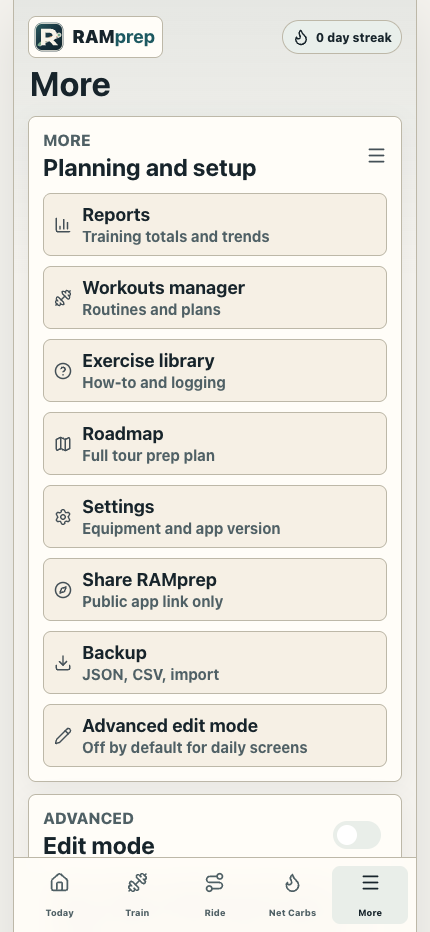
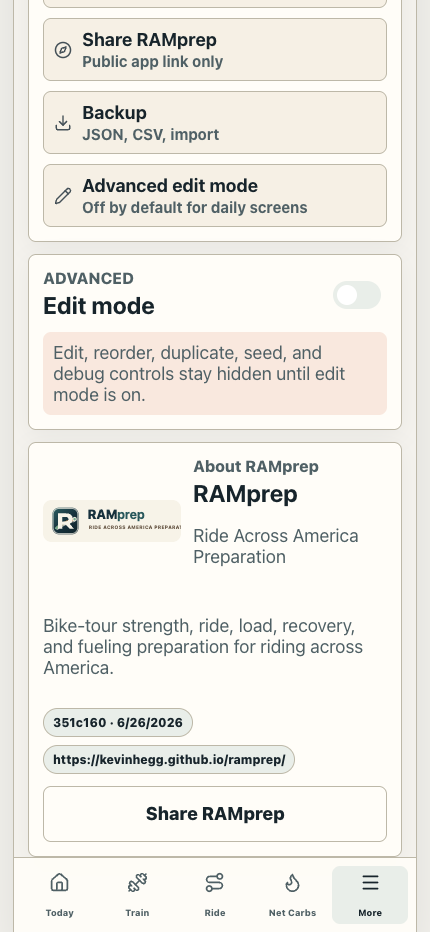
Preserve RAMprep casing in About report

diff --git a/src/App.css b/src/App.css
@@ -167,6 +167,10 @@
   letter-spacing: 0;
 }
 
+.eyebrow.preserve-case {
+  text-transform: none;
+}
+
 .status-pill,
 .tag {
   display: inline-flex;

diff --git a/src/App.tsx b/src/App.tsx
@@ -3180,7 +3180,7 @@ function App() {
             <div className="about-brand">
               <img src={`${import.meta.env.BASE_URL}ramprep-logo-horizontal.svg`} alt="RAMprep logo" />
               <div>
-                <p className="eyebrow">About RAMprep</p>
+                <p className="eyebrow preserve-case">About RAMprep</p>
                 <h2>RAMprep</h2>
                 <p>Ride Across America Preparation</p>
               </div>